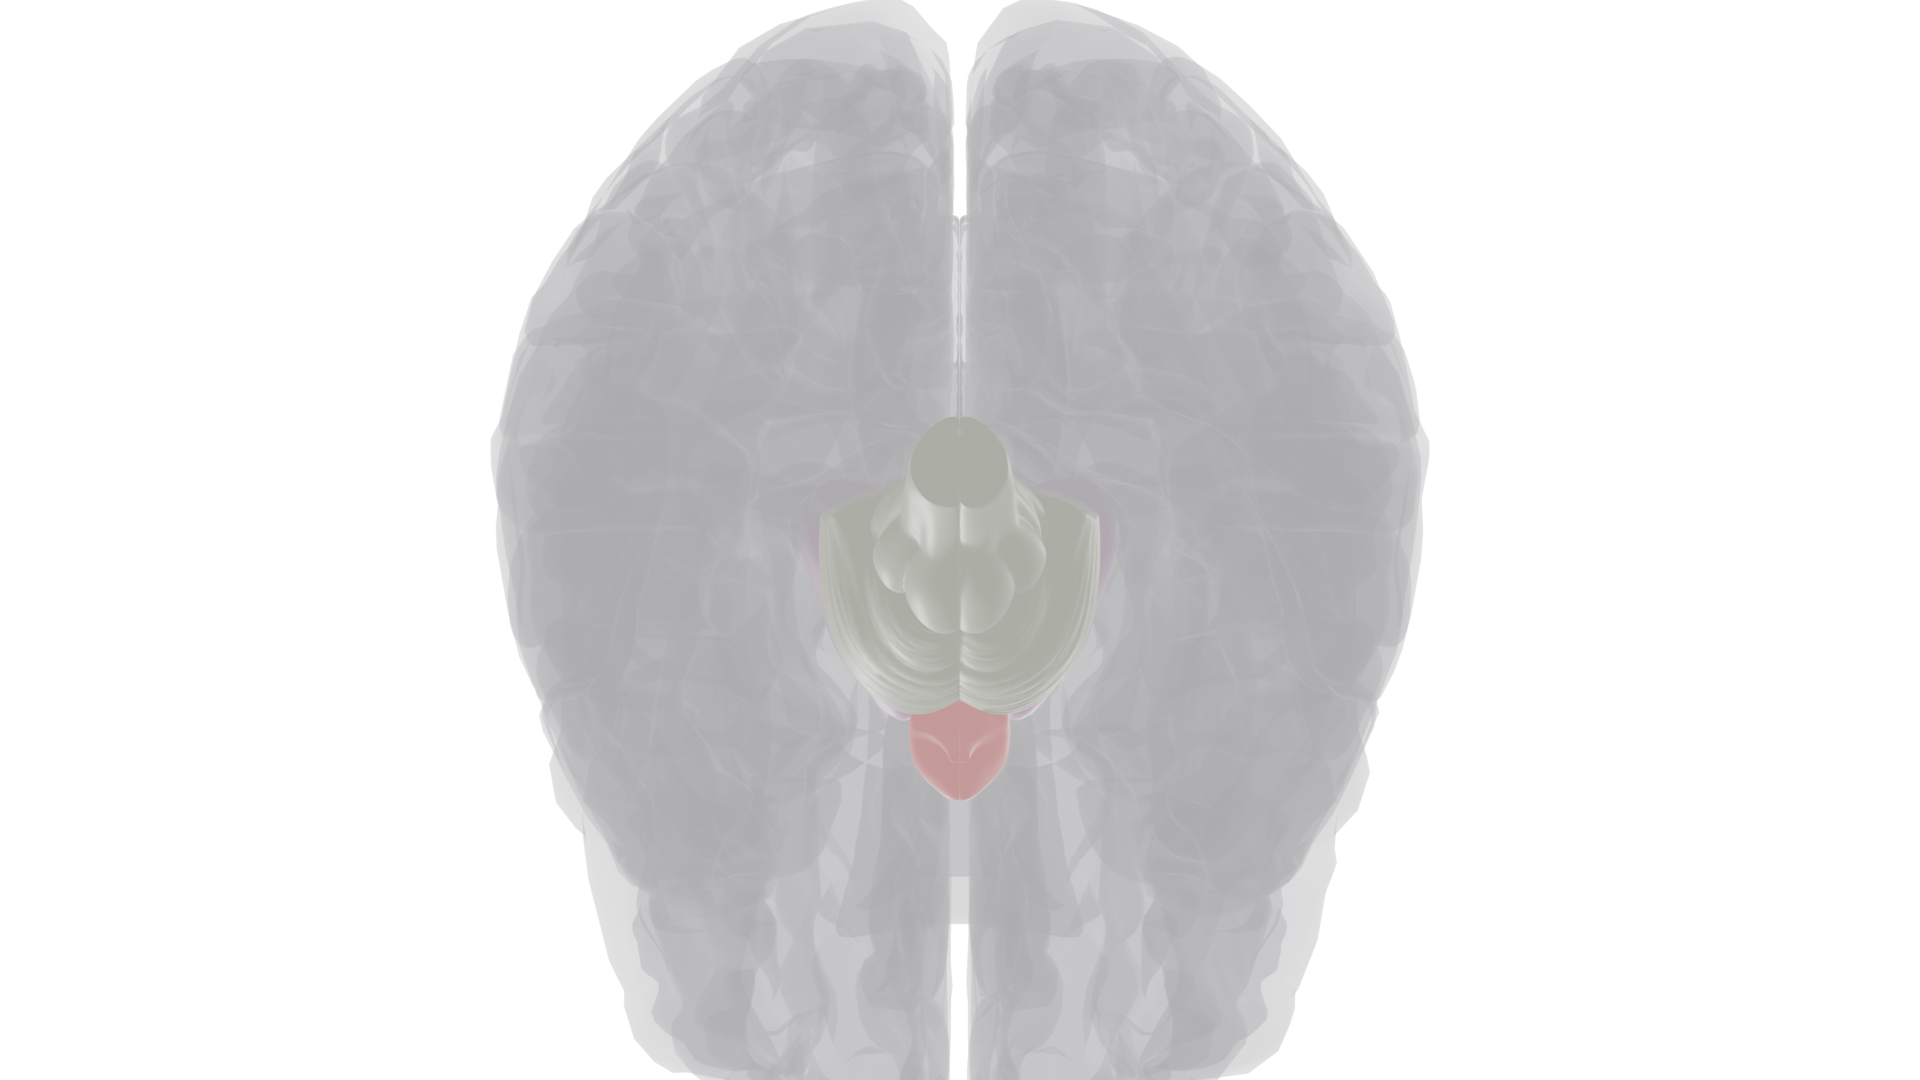
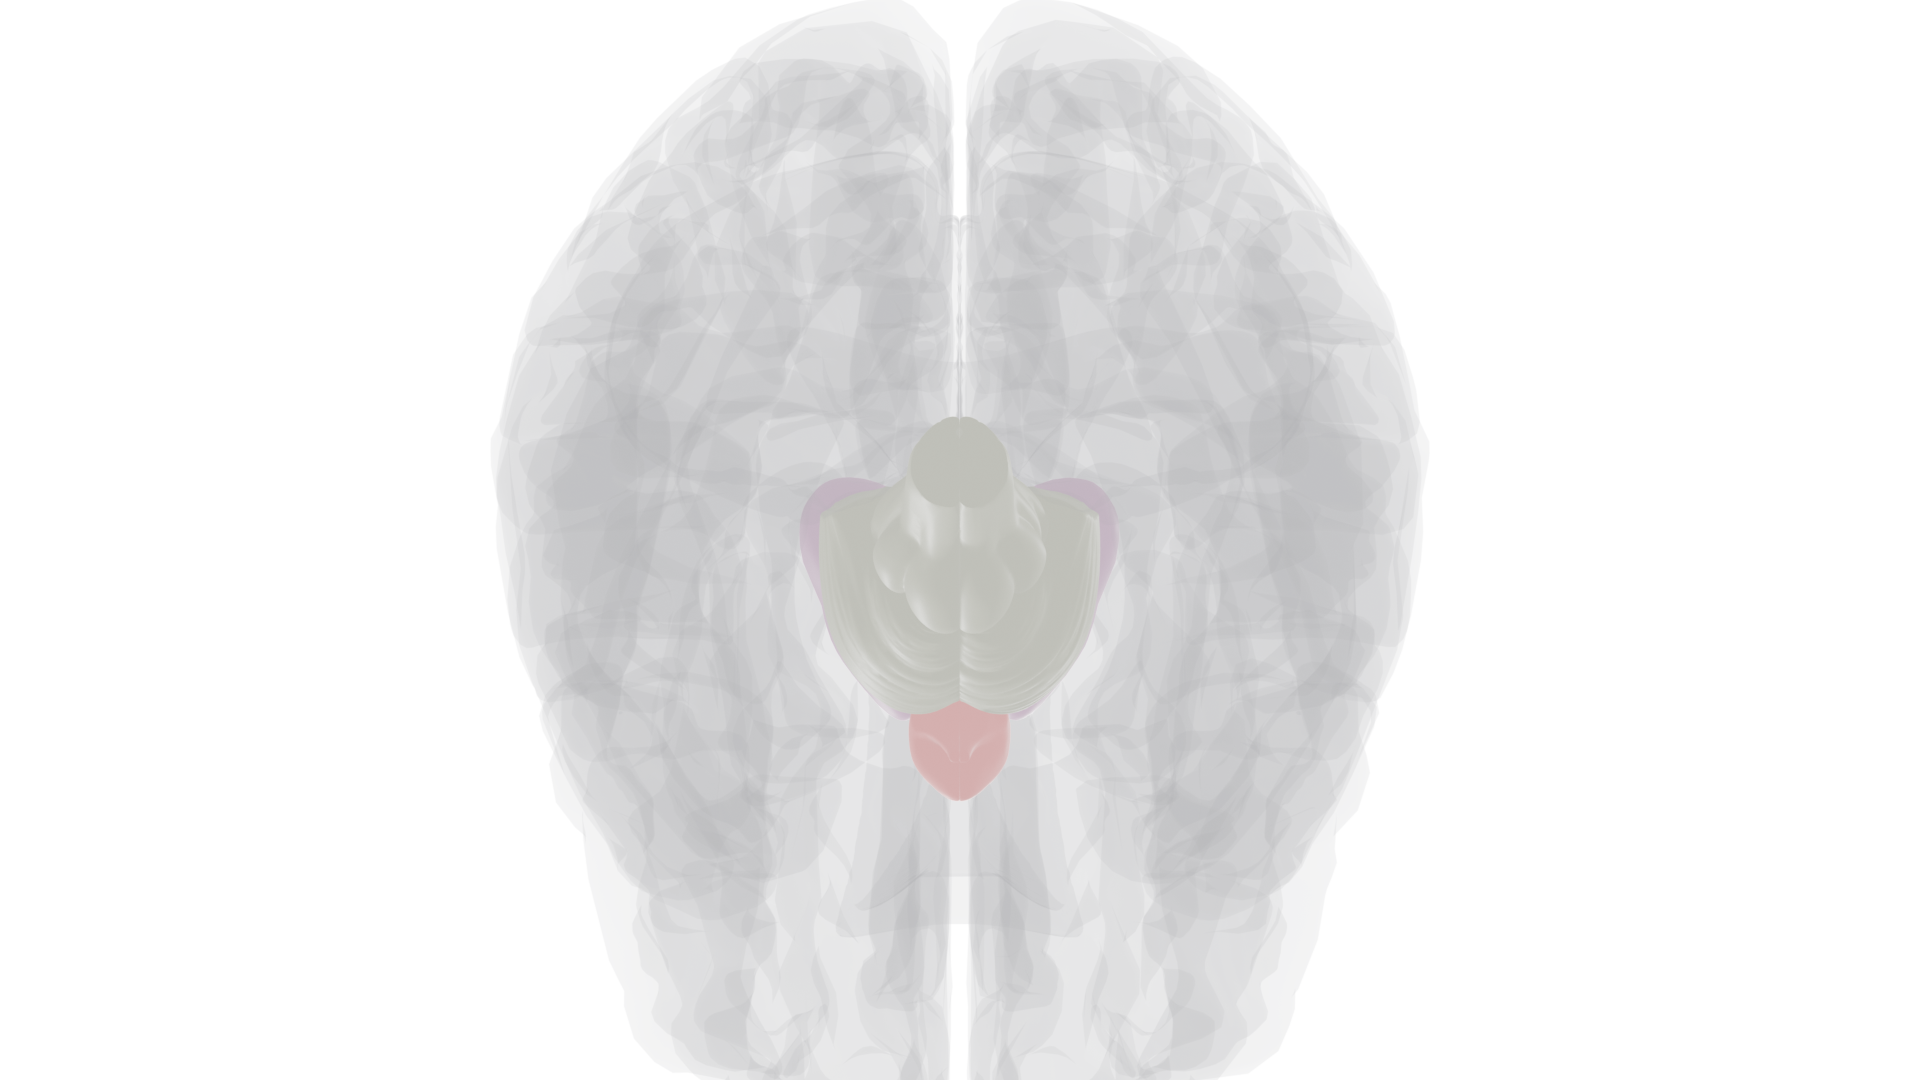
Improve Ch10 deep structure visibility, blue key-concept panels
- Ghost cortex alpha: 0.25 → 0.08 (nearly transparent)
- Highlighted structures now emit light (0.6 strength)
- Thalamus and hypothalamus clearly visible through cortex
- Key experiment/historical note panels: red → light blue (#6baecb)

Claude-Session: https://claude.ai/code/session_01FwWqcc1Muc3Uy1JZrhgsHm

Changed region(s): [[0.25, 0.0, 0.75, 1.0]]

diff --git a/ch10-biological-rhythms-and-sleep.html b/ch10-biological-rhythms-and-sleep.html
@@ -12,6 +12,8 @@
     --brainstem: #8a8f70;
     --accent: #eb5454;
     --accent-light: rgba(235, 84, 84, 0.12);
+    --info: #6baecb;
+    --info-light: rgba(107, 174, 203, 0.12);
   }
   @media (prefers-color-scheme: dark) {
     :root {
@@ -21,17 +23,20 @@
       --text-muted: #8b949e;
       --border: #2d333b;
       --accent-light: rgba(235, 84, 84, 0.15);
+      --info-light: rgba(107, 174, 203, 0.15);
     }
   }
   :root[data-theme="light"] {
     --bg: #f6f7f9; --bg-card: #ffffff; --text: #2a2d32;
     --text-muted: #6b7280; --border: #e2e5ea;
     --accent-light: rgba(235, 84, 84, 0.12);
+    --info-light: rgba(107, 174, 203, 0.12);
   }
   :root[data-theme="dark"] {
     --bg: #16181d; --bg-card: #1e2128; --text: #e1e4e8;
     --text-muted: #8b949e; --border: #2d333b;
     --accent-light: rgba(235, 84, 84, 0.15);
+    --info-light: rgba(107, 174, 203, 0.15);
   }
 
   * { margin: 0; padding: 0; box-sizing: border-box; }
@@ -153,8 +158,8 @@
   }
 
   .key-concept {
-    background: var(--accent-light);
-    border-left: 3px solid var(--accent);
+    background: var(--info-light);
+    border-left: 3px solid var(--info);
     padding: 14px 18px;
     border-radius: 0 8px 8px 0;
     margin: 16px 0;
@@ -166,7 +171,7 @@
     font-size: 0.78rem;
     text-transform: uppercase;
     letter-spacing: 0.05em;
-    color: var(--accent);
+    color: var(--info);
     margin-bottom: 4px;
   }
 

diff --git a/render_chapter.py b/render_chapter.py
@@ -39,7 +39,7 @@ COLORS = {
 }
 
 DIM_COLOR = (0.55, 0.55, 0.58, 1.0)
-DIM_ALPHA = 0.25
+DIM_ALPHA = 0.08
 
 # Chapter configs: which structures to highlight and which views to render
 CHAPTERS = {
@@ -97,6 +97,8 @@ for fname in sorted(os.listdir(OBJ_DIR)):
         bsdf.inputs["Base Color"].default_value = color
         bsdf.inputs["Roughness"].default_value = 0.5
         bsdf.inputs["Specular IOR Level"].default_value = 0.4
+        bsdf.inputs["Emission Color"].default_value = color
+        bsdf.inputs["Emission Strength"].default_value = 0.6
     else:
         bsdf.inputs["Base Color"].default_value = DIM_COLOR
         bsdf.inputs["Roughness"].default_value = 0.8